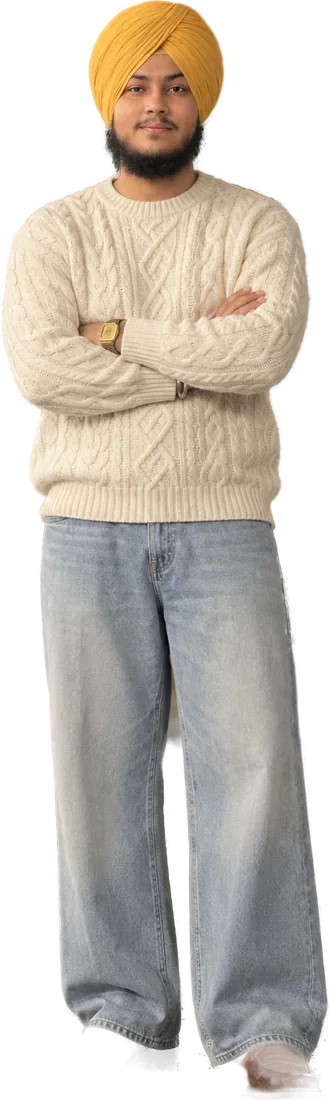
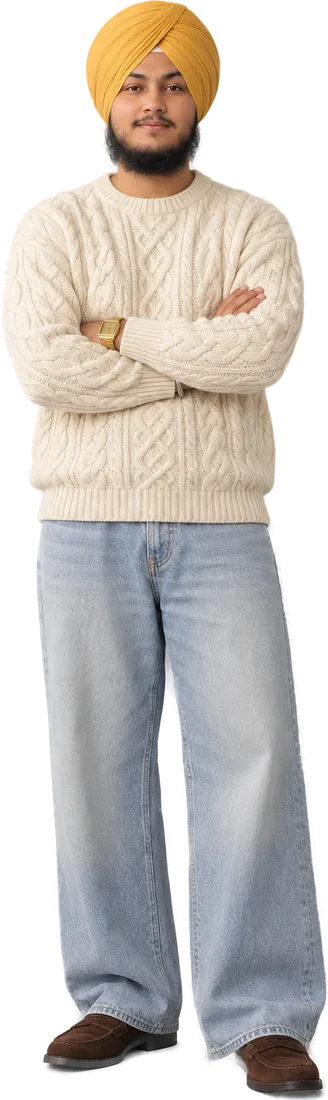
MEHAR: rotating ring carousel, feet pinned to floor, new Sutlej cutout
Claude-Session: https://claude.ai/code/session_01JrJaJCQe8gUgZCkNMD3Fdn

Changed region(s): [[0.0, 0.0, 1.0, 1.0], [0.7622, 0.68, 0.8232, 0.7109], [0.3049, 0.6491, 0.3354, 0.7109]]

diff --git a/public/mehar/index.html b/public/mehar/index.html
@@ -56,8 +56,8 @@ a{color:inherit}
 
 .stage{position:relative;flex:1;min-height:520px;margin-top:8px;touch-action:pan-y;user-select:none;-webkit-user-select:none;cursor:none}
 @media (hover:none),(pointer:coarse){.stage{cursor:grab}}
-.model{position:absolute;left:50%;bottom:9%;height:80%;aspect-ratio:400/1100;transform-origin:50% 100%;will-change:transform,filter,opacity}
-.model img{position:absolute;inset:0;width:100%;height:100%;object-fit:contain;pointer-events:none;-webkit-user-drag:none}
+.model{position:absolute;left:50%;bottom:11%;height:76%;aspect-ratio:420/1100;transform-origin:50% 100%;will-change:transform,filter,opacity}
+.model img{position:absolute;inset:0;width:100%;height:100%;object-fit:contain;object-position:50% 100%;pointer-events:none;-webkit-user-drag:none}
 .model .ghost{opacity:0;filter:grayscale(1) blur(6px)}
 .model .shadow{position:absolute;left:12%;right:12%;bottom:-2.2%;height:4.5%;border-radius:50%;background:radial-gradient(closest-side,rgba(20,19,17,.28),rgba(20,19,17,0));}
 .model .tag{position:absolute;left:50%;bottom:-9%;transform:translateX(-50%);white-space:nowrap;font-size:11px;letter-spacing:.18em;text-transform:uppercase;color:var(--muted);opacity:0;transition:opacity .4s}
@@ -315,23 +315,28 @@ const models=LOOKS.map((L,i)=>{
 });
 let pos=0,target=0,vel=0,dragging=false,startX=0,startPos=0,lastX=0,lastT=0,flick=0,moved=0,current=-1;
 const wrap=d=>{d=((d%N)+N)%N;return d>N/2?d-N:d};
-const spacing=()=>Math.max(120,Math.min(stage.clientWidth*0.2,260));
+const radius=()=>Math.max(170,Math.min(stage.clientWidth*0.44,470));
+const STEP=2*Math.PI/N;
+const spacing=()=>radius()*0.62; // px of drag that moves one look
 
 function render(){
-  const sp=spacing();
+  const R=radius(),F=R*1.35,H=stage.clientHeight;
   models.forEach((el,i)=>{
-    const d=wrap(i-pos),a=Math.abs(d);
-    const x=d*sp*(1-0.06*Math.min(a,3));
-    const s=1-0.14*Math.min(a,2.6);
-    const blur=reduce?0:Math.min(a,2.5)*2.6;
-    const op=a>2.7?Math.max(0,1-(a-2.7)*2):1-0.15*a;
-    el.style.transform=`translateX(calc(-50% + ${x}px)) scale(${s})`;
-    el.style.filter=blur>0.05?`blur(${blur}px)`:"none";
-    el.style.opacity=op;
-    el.style.zIndex=100-Math.round(a*10);
+    const d=wrap(i-pos);
+    // looks stand on a turntable seen in perspective: front is big and sharp, the rest shrink, blur and rise toward the back
+    const th=d*STEP,z=R*(1-Math.cos(th)),k=F/(F+z);
+    const x=Math.sin(th)*R*k;
+    const y=-(1-k)*H*0.30;
+    const depth=(1-k)/(1-F/(F+2*R));
+    const blur=reduce?0:depth*6;
+    const op=1-0.45*depth;
+    el.style.transform=`translate(calc(-50% + ${x.toFixed(1)}px), ${y.toFixed(1)}px) scale(${k.toFixed(3)})`;
+    el.style.filter=blur>0.05?`blur(${blur.toFixed(2)}px)`:"none";
+    el.style.opacity=op.toFixed(3);
+    el.style.zIndex=100-Math.round(depth*60);
     const g=el.querySelector(".ghost");
-    const gv=Math.min(Math.abs(vel)*6,.35);
-    g.style.opacity=gv;g.style.transform=`translateX(${(-vel*sp*1.6).toFixed(1)}px)`;
+    const gv=0;
+    g.style.opacity=gv;
     const isAct=Math.round(wrap(pos))===wrap(i)||(Math.abs(d)<.5);
     el.classList.toggle("active",isAct);
     el.classList.toggle("settled",isAct&&Math.abs(d)<0.04&&!dragging);
